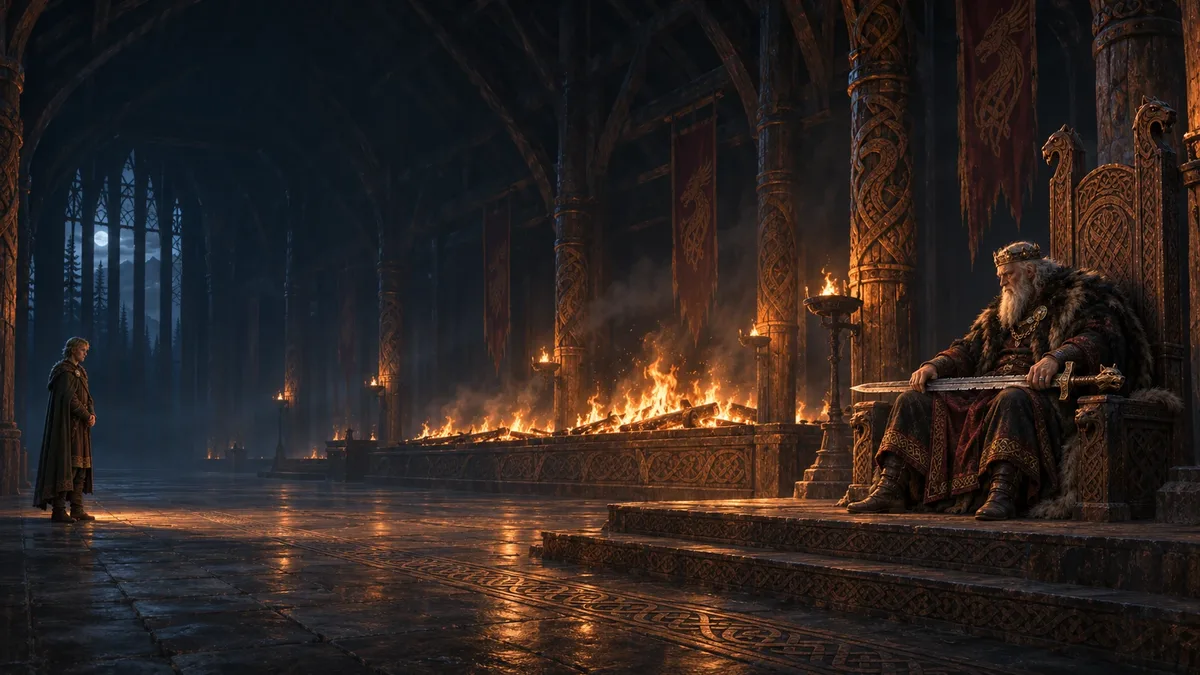
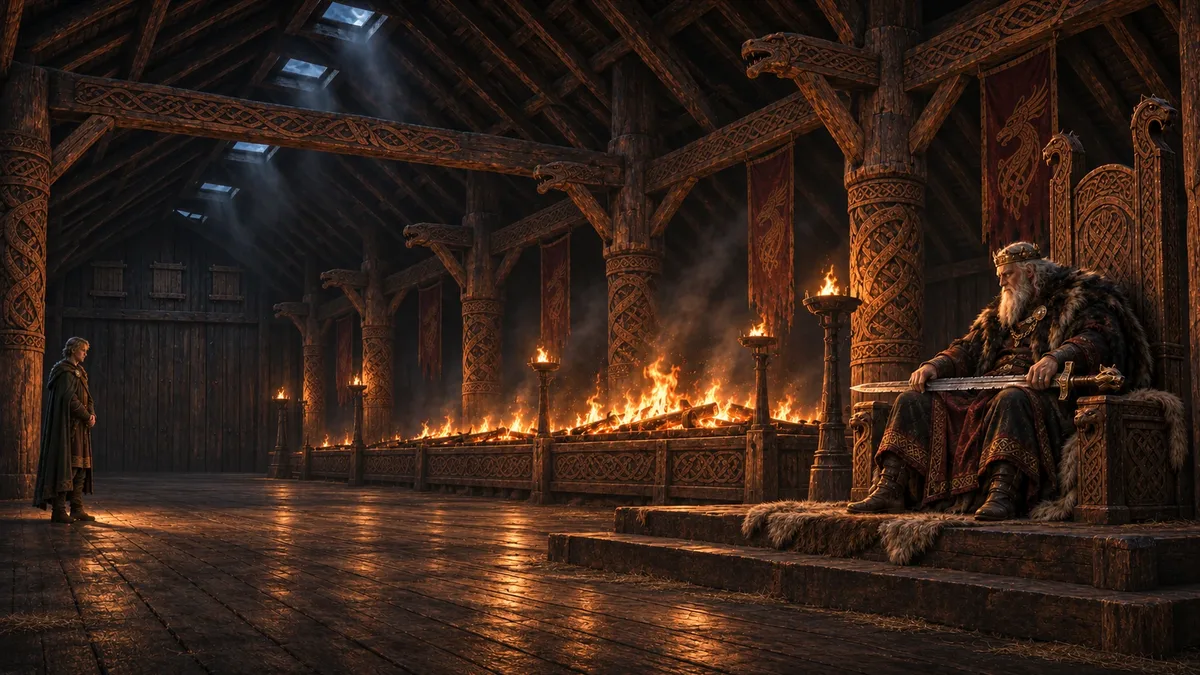
Art: Hrolf, king hall and wall redraws, Astrid and Ragnar defeat scenes (not yet registered)
Claude-Session: https://claude.ai/code/session_018DsforeThe2Xf67NaWvTXc

diff --git a/viking-game/index.html b/viking-game/index.html
@@ -2635,7 +2635,7 @@ const EVENTS=[
         {t:'收他當戰士',fx:()=>{S.men++;atone(8);return '「跟著我，總有一天你會比我強。」少年愣了很久，點了頭。\n戰士 +1，惡名 -8';}},
         {t:'把他趕走',fx:()=>'少年被拖了出去。'}]},
   {id:'astrid',once:1,phase:[2,3],cond:()=>S.fame>=35,title:'盾女',text:'一個背著圓盾的女戰士走進營地，把斧頭插在你面前的桌上：「我叫阿斯特麗德。我只追隨比我強的人。」',
-    ch:[{t:'接受比武',note:'點到為止',fx:()=>{duel('astrid',{lethal:false,xp:16,onEnd:w=>{if(w){const j=addChamp('astrid',60);pushModal(el=>cineView(el,[{art:['sc_win_astrid','astrid'],text:'你的斧背敲在她的盾緣上。那面畫著渡鴉的圓盾脫手飛了出去，在泥地上滾了好幾圈。'},{art:['sc_win_astrid','astrid'],text:'阿斯特麗德愣在原地，看著自己空空的左手。\n\n圍觀的人一點聲音都沒有。從來沒有人讓她的盾落地過。'},{art:['sc_win_astrid','astrid'],text:'她走過去撿起盾牌，背對著你，很久沒有轉身。\n\n「……運氣好而已。」她說。耳朵有一點紅。'},{art:['astrid'],text:'然後她拔起插在桌上的斧頭，走回你面前，單膝跪下。\n\n'+j}],closeModal,'盾女'));return '阿斯特麗德的盾牌飛了出去。';}S.flags.ev_astrid=0;return '她搖搖頭：「等你更強再說。」她也許還會回來。';}});return null;}},
+    ch:[{t:'接受比武',note:'點到為止',fx:()=>{duel('astrid',{lethal:false,xp:16,onEnd:w=>{if(w){const j=addChamp('astrid',60);pushModal(el=>cineView(el,[{art:['sc_win_astrid','astrid'],text:'你的斧背敲在她的盾緣上。那面畫著渡鴉的圓盾脫手飛了出去，在泥地上滾了好幾圈。'},{art:['sc_win_astrid','astrid'],text:'阿斯特麗德愣在原地，看著自己空空的左手。\n\n圍觀的人一點聲音都沒有。從來沒有人讓她的盾落地過。'},{art:['sc_win_astrid','astrid'],text:'她走過去撿起盾牌，背對著你，很久沒有轉身。\n\n「……運氣好而已。」她說。耳朵有一點紅。'},{art:['astrid'],text:'然後她把斧頭插進泥地裡，走回你面前，單膝跪下。\n\n'+j}],closeModal,'盾女'));return '阿斯特麗德的盾牌飛了出去。';}S.flags.ev_astrid=0;return '她搖搖頭：「等你更強再說。」她也許還會回來。';}});return null;}},
         {t:'用你的計畫說服她',note:()=>rate(.1+eff('pre')*.07),fx:()=>{if(chk(.1+eff('pre')*.07))return '你沒有拔武器，只是把你的計畫說給她聽。她沉默很久，然後點頭。\n'+addChamp('astrid',55);S.flags.ev_astrid=0;return '她聽完只說了一句：「空話。」';}},
         {t:'我不需要你',fx:()=>'她冷哼一聲，轉身走了。'}]},
   {id:'una',once:1,phase:[2,3],title:'霧沼的草藥婆',text:'一個背著藥簍的老婦人來到部落門口。她說她叫烏娜，霧沼的村子容不下她了。「給我一間屋子，我能治好你身上的傷。」',

diff --git a/viking-game/art-prompts.md b/viking-game/art-prompts.md
@@ -10,26 +10,9 @@
    - 我會自己縮圖、轉檔，你不用處理。
 4. 某張畫壞了（多手指、文字、現代物品），重畫那一張就好。還沒到的圖，遊戲裡會先用符文圖示代替，不影響遊玩。
 
-## ★ v0.13 重畫（2 張）
+## ✅ v0.13 重畫（2 張，已收到）
 
-| 檔名 | 問題 | 優先 |
-|---|---|---|
-| sc_d3_wall | 你頭上戴著王冠，可是這時候你還只是部落首領，要到第三章結束才稱王 | 高 |
-| sc_d3_king | 窗戶是尖頂的哥德式大窗，像中世紀教堂，不像維京王廳 | 低（可不畫） |
-
-**sc_d3_wall（重畫：沒有王冠）**
-
-```
-Cinematic photorealistic digital painting, Viking Age Scandinavia (9th–10th century). Dramatic golden-hour light with cold blue shadows, atmospheric mist, epic sense of scale. Wide 16:9 landscape composition with room at the top for a title. No text, no letters, no watermark, no frame, no modern objects.
-Night in a young Viking settlement by a fjord. On the wooden palisade wall, a Viking chieftain seen from behind (face hidden, gender not identifiable: a deep fur-lined hood pulled up, heavy fur cloak, NO crown, NO circlet, only a plain silver arm ring) stands alone looking down at the village: dozens of turf-roofed longhouses with smoke rising from the roofs, warm firelight in doorways, a few people and children, fishing boats pulled up on the shore, stars and a thin moon above the mountains. Quiet, heavy with responsibility, the night before a big decision.
-```
-
-**sc_d3_king（重畫：純維京木造王廳）**（可不畫）
-
-```
-Cinematic photorealistic digital painting, Viking Age Scandinavia (9th–10th century). Dramatic golden-hour light with cold blue shadows, atmospheric mist, epic sense of scale. Wide 16:9 landscape composition with room at the top for a title. No text, no letters, no watermark, no frame, no modern objects.
-A vast, dark Viking royal hall at night built entirely of dark carved timber: rows of thick wooden pillars carved with knotwork, a high pitched wooden roof with smoke holes, NO stone arches, NO pointed windows, NO church-like architecture. Old King Halfdan of Norway (around seventy, long white beard and hair, gold knotwork crown, dark red-and-black robes with gold knotwork, fur mantle, an ancient long sword resting across his knees) sits alone on a high carved throne, staring silently into the long hearth fire in the middle of the hall; a young envoy stands far away at the edge of the light, waiting, unsure. The king's face is calm, unreadable and heavy. Oppressive silence, foreboding, respect.
-```
+sc_d3_wall（拿掉王冠）、sc_d3_king（木造王廳）已換上新版。
 
 ## ★ v0.13 新圖（34 張）
 
@@ -46,7 +29,7 @@ A vast, dark Viking royal hall at night built entirely of dark carved timber: ro
 | 3 | sc_d3_sigurd | 雅爾西格德把使者趕出去 （✅ 已收到）| 第 5 頁 |
 | 4 | sc_d3_brynhild | 布倫希爾德在鷹巢峰大笑 （✅ 已收到）| 第 6 頁 |
 | 5 | sc_d3_king | 老王哈夫丹看著火，什麼也沒說 （✅ 已收到）| 第 7 頁 |
-| 6 | sc_d3_hrolf | 赫羅爾夫在紅帆營砸了酒杯 | 第 8 頁 |
+| 6 | sc_d3_hrolf | 赫羅爾夫在紅帆營砸了酒杯 （✅ 已收到）| 第 8 頁 |
 
 **1. sc_d3_wall（木牆上看族人的炊煙）**
 
@@ -96,8 +79,8 @@ A rough Viking war camp on a rocky shore at dusk, longships with blood-red sails
 
 | # | 檔名 | 內容 | 用在 |
 |---|---|---|---|
-| 1 | sc_win_astrid | 阿斯特麗德的盾落地 | 打贏阿斯特麗德 |
-| 2 | sc_win_ragnar | 拉格納躺在地上大笑 | 打贏拉格納 |
+| 1 | sc_win_astrid | 阿斯特麗德的盾落地 （✅ 已收到）| 打贏阿斯特麗德 |
+| 2 | sc_win_ragnar | 拉格納躺在地上大笑 （✅ 已收到）| 打贏拉格納 |
 | 3 | sc_win_bjorn | 比約恩把咬爛的盾牌丟在你腳邊 | 打贏比約恩 |
 | 4 | sc_win_sigrid | 西格麗德躺在斗篷上笑出來 | 打贏西格麗德 |
 
